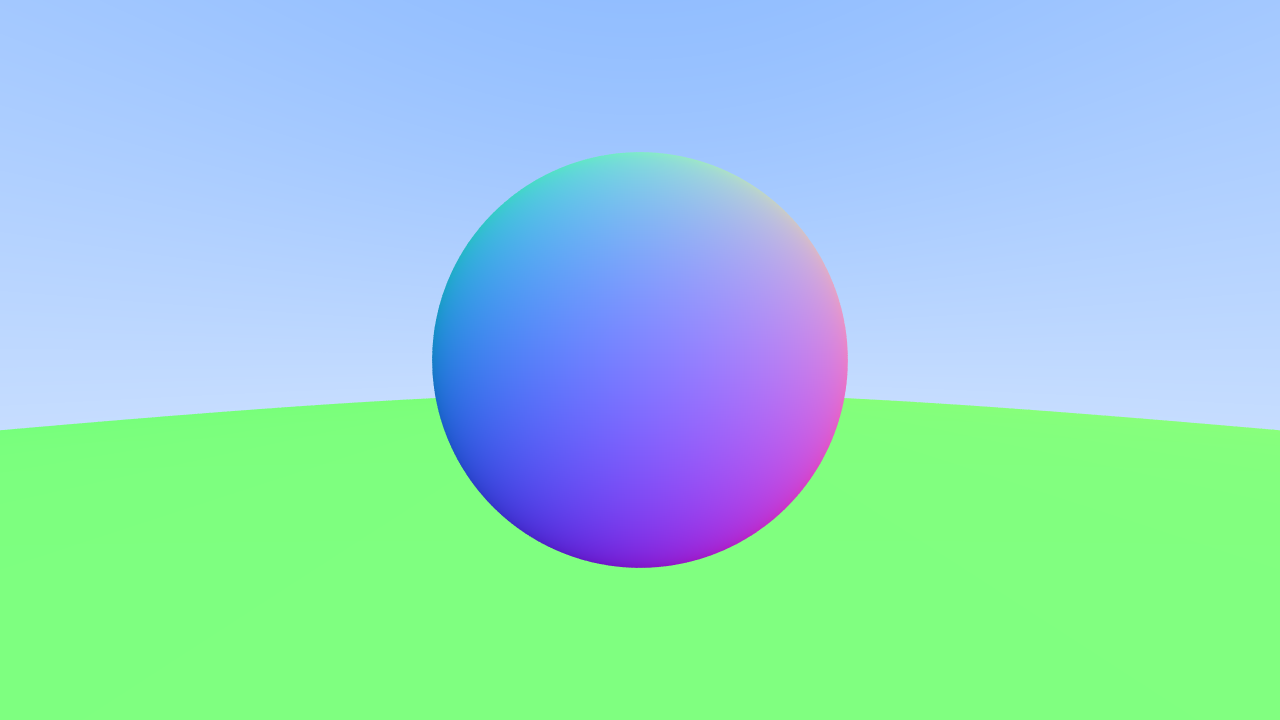
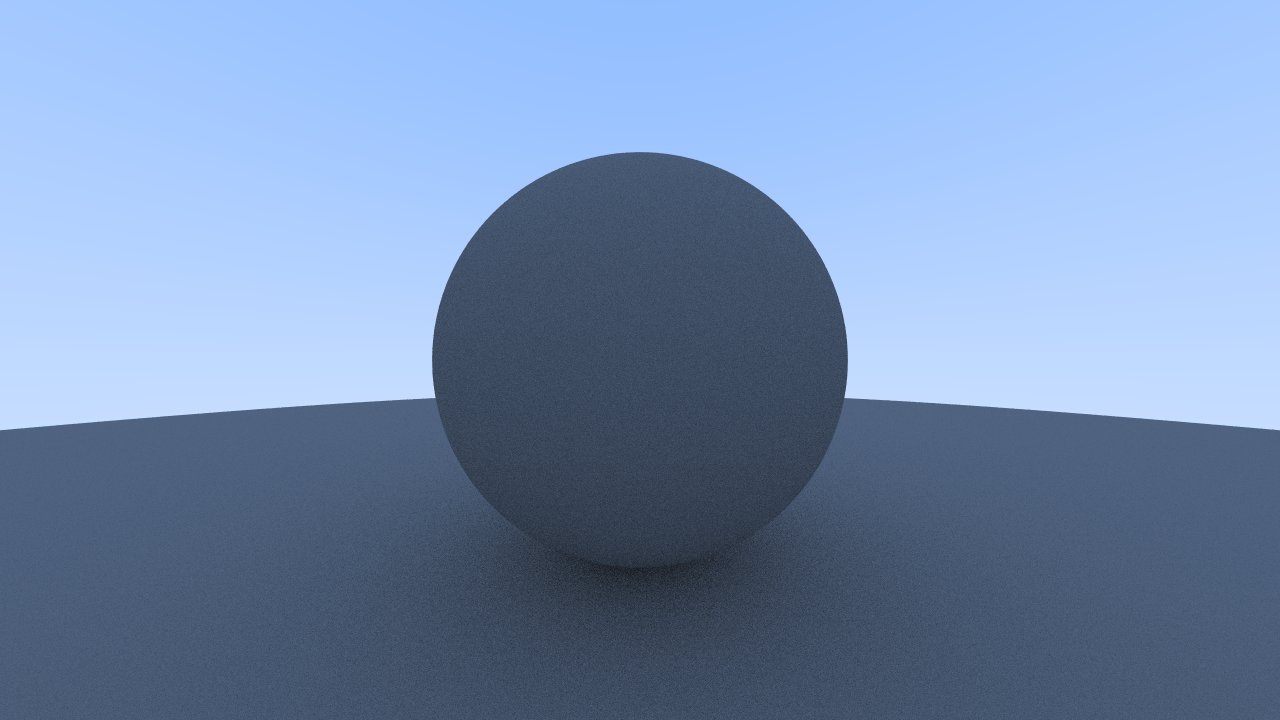
feat: simple diffuse material

diff --git a/src/common/camera.h b/src/common/camera.h
@@ -14,6 +14,7 @@ public:
     double aspect_ratio = 1.0;  // Ratio of image width over height
     int image_width = 100;      // Rendered image width in pixel count
     int samples_per_pixel = 10; // Count of random samples for each pixel
+    int max_depth = 10;         // Maximum number of ray bounces into scene
     cv::Mat img;                // Rendered image as cv::Mat
 
 public:
@@ -30,7 +31,7 @@ public:
                 Vec3d pixel_color = {0.0, 0.0, 0.0};
                 for (int sample = 0; sample < samples_per_pixel; ++sample) {
                     Ray ray = get_ray(x, y);
-                    pixel_color += ray_color(ray, world);
+                    pixel_color += ray_color(ray, max_depth, world);
                 }
                 pixel_color *= pixel_samples_scale;
 
@@ -94,11 +95,17 @@ private:
         return Vec3d(random_double() - 0.5, random_double() - 0.5, 0.0);
     }
 
-    Vec3d ray_color(const Ray& ray, const pro::proxy<Hittable>& hittable) {
+    Vec3d ray_color(const Ray& ray, const int depth, const pro::proxy<Hittable>& hittable) {
+        // If we've exceeded the ray bounce limit, no more light is gathered
+        if (depth <= 0) {
+            return {0.0, 0.0, 0.0};
+        }
+
         HitRecord hit_rec;
 
-        if (hittable->hit(ray, Interval {0, infinity}, hit_rec)) {
-            return 0.5 * (hit_rec.normal + Vec3d::Ones());
+        if (hittable->hit(ray, Interval {0.001, infinity}, hit_rec)) {
+            const Vec3d direction = random_on_hemisphere(hit_rec.normal);
+            return 0.5 * ray_color(Ray(hit_rec.p, direction), depth - 1, hittable);
         }
 
         const Vec3d unit_direction = ray.direction().normalized();

diff --git a/src/common/common.h b/src/common/common.h
@@ -41,3 +41,24 @@ inline double random_double(const double min, const double max) {
     // Returns a random real in [min,max)
     return min + (max - min) * random_double();
 }
+
+// Random Unit Vector Generation
+
+inline Vec3d random_unit_vector() {
+    while (true) {
+        const Vec3d p = Vec3d::Random();
+        const double norm_sq = p.squaredNorm();
+        if (norm_sq > 1e-100 && norm_sq <= 1.0) {
+            return p.normalized();
+        }
+    }
+}
+
+inline Vec3d random_on_hemisphere(const Vec3d& normal) {
+    const Vec3d on_unit_sphere = random_unit_vector();
+    if (on_unit_sphere.dot(normal) > 0.0) {
+        return on_unit_sphere;
+    } else {
+        return -on_unit_sphere;
+    }
+}

diff --git a/utils/use_core.cpp b/utils/use_core.cpp
@@ -44,6 +44,7 @@ int main(int argc, const char* argv[]) {
     cam.aspect_ratio = 16.0 / 9.0;
     cam.image_width = 1280;
     cam.samples_per_pixel = 50;
+    cam.max_depth = 50;
 
     // Render
     cam.render(world_as_hittable);
